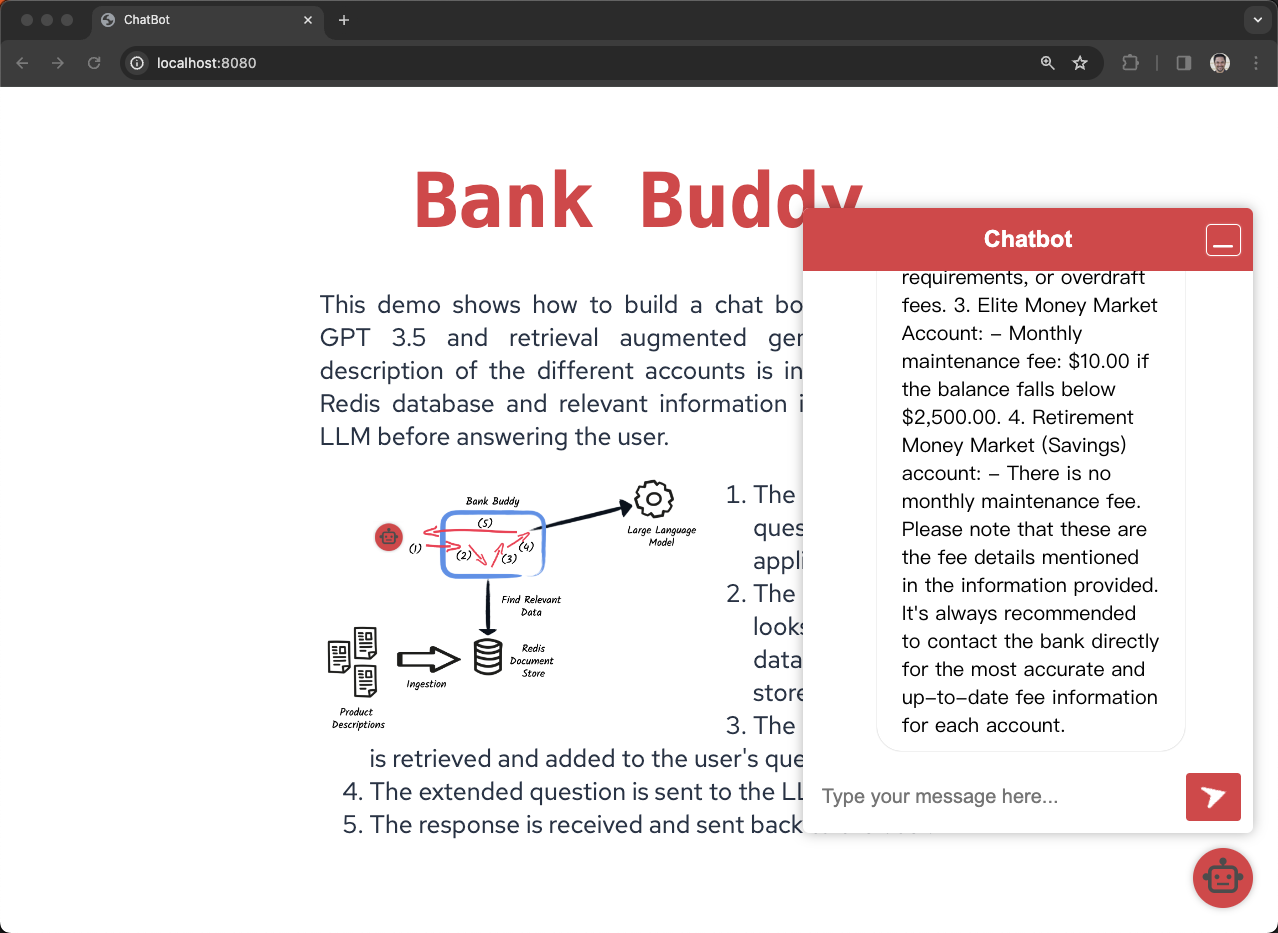
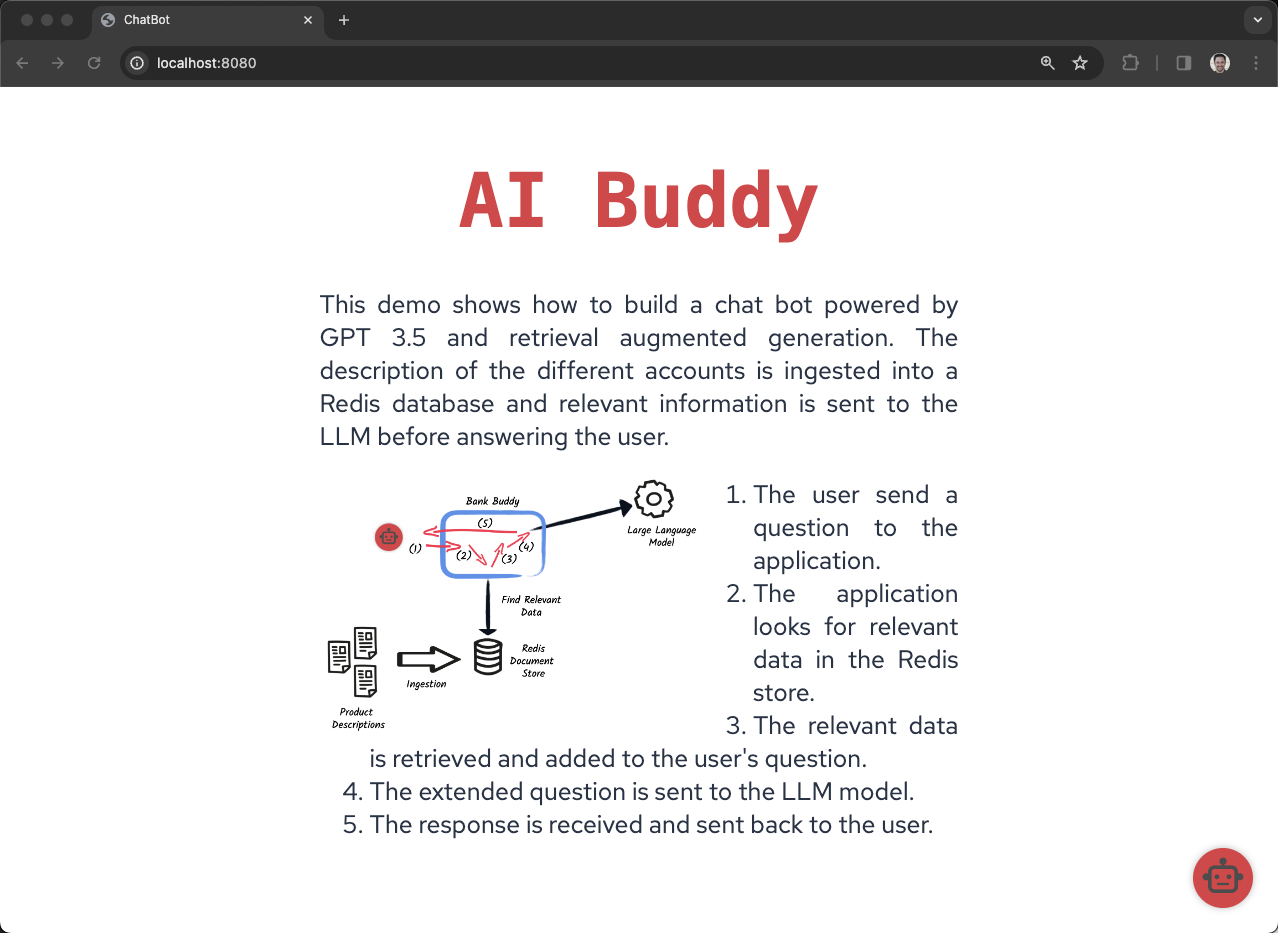
more generic AI buddy

Changed region(s): [[0.6103, 0.1865, 1.0, 0.9014], [0.3052, 0.1865, 0.5798, 0.2487], [0.9765, 0.9946, 1.0, 1.0]]

diff --git a/src/main/resources/META-INF/resources/components/demo-title.js b/src/main/resources/META-INF/resources/components/demo-title.js
@@ -48,7 +48,7 @@ export class DemoTitle extends LitElement {
     render() {
         return html`
             <div class="title">
-                <h1>Bank Buddy</h1>
+                <h1>AI Buddy</h1>
             </div>
             <div class="explanation">
                 This demo shows how to build a chat bot powered by GPT 3.5 and retrieval augmented generation.

diff --git a/README.md b/README.md
@@ -14,20 +14,23 @@ Provide a credit card for Billing https://platform.openai.com/account/billing/ov
 
 Monitor usage https://platform.openai.com/usage
 
-Once you have that API key, create a .env file with 
+Create a .env file in the root of the project to hold the API key
 
 ```
 QUARKUS_LANGCHAIN4J_OPENAI_API_KEY=<insert openai.com API key here>
 ```
 
-
-## Running the application in dev mode
+## Running the application in dev interactive mode
 You can run your application in dev mode that enables live coding using:
 ```shell script
 ./mvnw compile quarkus:dev
 ```
 
-![Bank Buddy](./readme-images/main-screen.png)
+```
+open http://localhost:8080
+```
+
+![AI Buddy](./readme-images/main-screen.png)
 
 ## Interacting with the application
 
